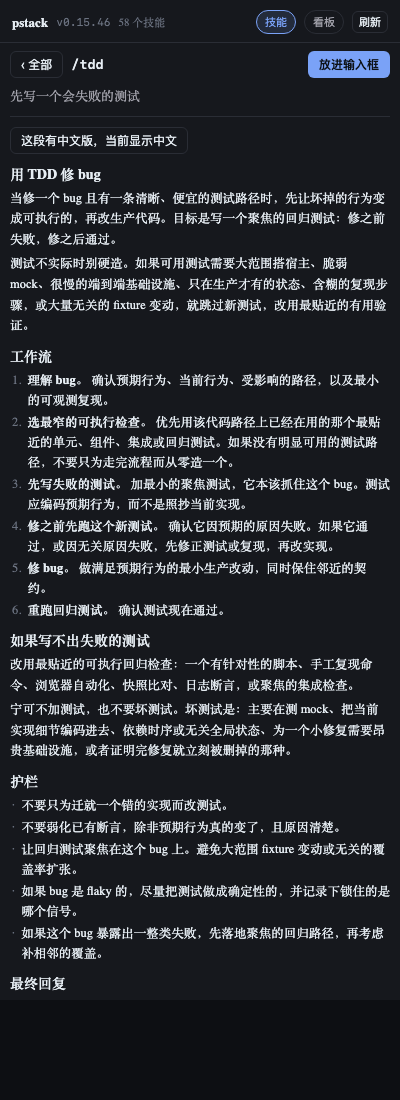
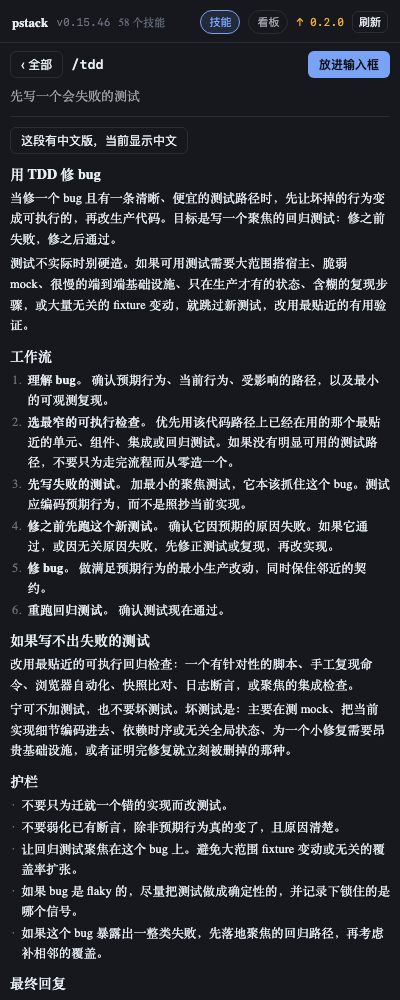
README：补 pstack 是什么/怎么用/执行原理，加产品截图与参考链接
- 新增三节：pstack 是什么（三层结构 22 剧本/34 技能/24 原则）、怎么用（Claude Code/Cursor/npx skills）、执行原理（说目标→匹配剧本→执行→验证，四条为什么）
- 新增截图章节：技能列表/技能详情/项目看板/依赖流程/下钻，全部由 npm run preview 渲染真面板截出
- 参考的项目 → 参考链接，加入 pstack.xiaoxiaodong.ai 与 nevertoday/xxd-pstack
- 版本 0.2.1（README 随包发布，npm 页同步）

diff --git a/README.md b/README.md
@@ -1,6 +1,12 @@
 # dsh-pstack-deck
 
-把 [pstack](https://github.com/backnotprop/pstack) 的 58 个技能做成 **DeepSeek Harness（DSH）** 右栏面板：点一下就注入，不用记名字。再往前一步，它还是一个**项目看板**——多任务并行时告诉你哪张卡现在能开工、谁在做、会不会打架、下一步该用哪个技能。
+把 [pstack](https://github.com/backnotprop/pstack) 的 58 个技能做成 **DeepSeek Harness（DSH）** 的右栏面板：点一下就注入，不用记名字。再往前一步，它还是一个**项目看板**——多任务并行时告诉你哪张卡现在能开工、谁在做、会不会打架、下一步该用哪个技能。
+
+![npm](https://img.shields.io/npm/v/dsh-pstack-deck?style=flat-square&color=8A9A8C)
+![技能](https://img.shields.io/badge/技能-58_个-D7B9C8?style=flat-square)
+![中文正文](https://img.shields.io/badge/中文正文-58_篇-9AA8C4?style=flat-square)
+![测试](https://img.shields.io/badge/测试-46_通过-C9A97A?style=flat-square)
+![许可](https://img.shields.io/badge/许可-MIT-8A9A8C?style=flat-square)
 
 - 插件名：`dsh-pstack-deck`
 - 宿主：DSH（Web 与桌面都行）
@@ -8,15 +14,150 @@
 
 ---
 
+## 截图
+
+右栏面板，三个视图。下面这些是用 `npm run preview` 把真面板渲染成 HTML 再截的，不是手画的示意图。
+
+**技能列表** —— 58 个技能按六组排，带中文一句话；标题栏会自己问 npm 有没有新版本。
+
+![技能列表](docs/preview-list.png)
+
+**技能详情** —— 中文正文，可一键切回英文原文，底部直接「放进输入框」。
+
+![技能详情](docs/preview-detail.png)
+
+**项目看板** —— 顶部是 3~5 条带现成提示词的建议，下面按「可开工 / 在做 / 完成 / 被挡着」分组，每张卡带推荐技能、紧急度与把握。
+
+![项目看板](docs/preview-board.png)
+
+**依赖流程图** —— 一列一层，箭头是「先做 → 再做」；每个没做完的节点下面挂着两格虚线：推荐的下一步技能，和「完成」。
+
+![依赖流程图](docs/preview-flow.png)
+
+**点节点下钻** —— 状态、认领人、动哪些路径、等谁、下一步技能与理由、可直接粘的命令。
+
+![下钻](docs/preview-drill.png)
+
+---
+
+## pstack 是什么
+
+**一句话：它不是新模型，是装进你已经在用的 AI 编程工具里的一包做事规矩。**
+
+模型还是那个模型（Claude、GPT、随便哪个）。变的是它做事的**顺序和标准**：先搞懂，再动手，改完自己检查一遍才回话。
+
+pstack 由 poteto 写就——React 核心团队出身，在 Cursor 期间写下它，现在做 Grok Bot。它把自己每天写代码用的那套东西抽成了一包可安装的技能，免费开源。
+
+它要治的是这四个毛病：
+
+- **没读懂就改。** 改在看着对、其实不对的地方。
+- **只治表面。** 在显示的地方去掉重复数据，产生重复的 bug 还在。
+- **没试过就说做完了。** 它说「应该没问题了」，你一跑还是坏的。
+- **越改越多。** 加一堆用不上的代码，下一个 bug 就藏在里面。
+
+装进去的东西分三层：
+
+| 层 | 数量 | 是什么 |
+|---|---|---|
+| **剧本**（playbook） | 22 套 | 每类任务一套做法：修 bug、加功能、重构、追查故障…… |
+| **技能**（skill） | 34 个 | 单点动作：`how` 讲清代码、`bro` 翻成大白话、`interrogate` 挑刺 |
+| **原则**（principle） | 24 条 | 判断标准：「先删再加」「证明它能用」「改调用方而不是加兼容层」 |
+
+加起来 58 个技能条目（34 个动作 + 24 条原则），装在这一份仓库里。
+
+**适合谁：** 用 AI 做过东西、被「已完成但其实没好」坑过的人；想要做对，不在乎慢一点。
+**先别用：** 改错别字、换个颜色这种小事直接跟 AI 说就行；只要最快最省额度也别用，pstack 会多检查，更慢也更费 token。
+
+## pstack 怎么用
+
+### 在 Claude Code / Cursor / Codex 里
+
+**Claude Code**（插件市场）：
+
+```
+/plugin marketplace add cursor/plugins
+/plugin install pstack@cursor-plugins
+```
+
+命令挂在 `pstack:` 下面，所以是 `/pstack:poteto-mode`，只打 `/poteto-mode` 不认。
+
+**Cursor**：对话框里发 `/add-plugin pstack`，命令保持原样，不用前缀。
+
+**Codex 和其他**（`npx skills`，需要 Node.js 22.20+）：
+
+```bash
+npx skills add backnotprop/pstack        # 装进当前项目
+npx skills add backnotprop/pstack -g     # 装到全局，所有项目都能用
+```
+
+装完开一个**新对话**，输入 `/` 看到 `poteto-mode` 就是成了。项目级安装落在 `<项目>/.dsh/skills/` 或 `.agents/skills/`，全局落在 `~/.dsh/skills/`。
+
+### 在 DSH 里
+
+用本插件（见下一节）。它做的是同一件事，只是把 58 个技能摆成能点的面板，并把看板、依赖拓扑一起给你。
+
+### 平时只用记住一个命令
+
+```
+/pstack:poteto-mode
+```
+
+你说目标（加上怎么算做完），它安排剩下的。比如：
+
+> 先复现这个 bug，再修，修完给我看证据。
+
+不用记那 58 个名字。不知道学哪个就先问 `/pstack:poteto-help`，它只回答问题，不会开始干活。
+
+## pstack 的执行原理
+
+pstack 每接一件事，走固定的四步。它的价值全在这个顺序里，不在某一句话写得聪明。
+
+```
+你说一句话（目标 + 怎么算做完）
+        │
+        ▼
+① 匹配：poteto-mode 从 22 套剧本里挑一套
+        │   把剧本的步骤原样抄进待办清单，不改写
+        ▼
+② 执行：按清单逐步调用技能
+        │   读代码用 how、定设计用 architect、挑刺用 interrogate
+        │   活多就派子代理，子代理守同一套规矩、各用各的工作目录
+        ▼
+③ 验证：检查完才交回来
+        │   真实命令输出、截图、前后对比、日志断言
+        │   验证不了的直说「没法确定」，不许说「应该没问题了」
+        ▼
+④ 交回：干了什么、查到什么、还剩什么，逐条对上清单
+```
+
+四个细节决定了它为什么比「直接让 AI 改」靠谱：
+
+1. **先复述，再动手。** 你要的东西它会先用自己话讲一遍，你能在它动手之前就纠正。
+2. **剧本是抄的，不是编的。** 挑中的剧本步骤原样进清单，所以「它这次心情好就跳步」这件事不会发生。
+3. **改动越小越好。** 能删就删、不加用不上的抽象、调用方迁完就删旧接口——24 条原则里一大半在压这个。
+4. **证据先于结论。** 「做完了」必须附上跑过的命令和看到的输出；跑不动的部分标成「无法验证」，而不是省略。
+
+一句话：**它不改模型的能力，改的是模型的作业流程。** 所以它跟 Claude Code、Cursor、Codex 都能配——只要那个工具能改文件、能执行命令。
+
+想读完整版有两条路：写代码的看 [9 步完整教程](https://pstack.xiaoxiaodong.ai/guide/0-what/)，不写代码的看 [新手 3 课](https://pstack.xiaoxiaodong.ai/start/1-why/)（20 分钟）。
+
+---
+
 ## 装进 DSH
 
 插件在 DSH 里有三个入口，装一次全都来：右栏面板、斜杠菜单、工具行。
 
-**从 GitHub 装（推荐）**
+**从 npm 装**
+
+```bash
+dsh plugin --profile desktop add dsh-pstack-deck@0.2.1
+dsh plugin --profile web add dsh-pstack-deck@0.2.1
+```
+
+**从 GitHub 装**
 
 ```bash
 dsh plugin --profile web add github:kestrelvale/dsh-pstack-deck
-dsh plugin --profile desktop add github:kestrelvale/dsh-pstack-deck
 ```
 
 **从本地目录装**（改代码时用这个，改完重启就生效）
@@ -25,13 +166,9 @@ dsh plugin --profile desktop add github:kestrelvale/dsh-pstack-deck
 dsh plugin --profile web add link:/绝对路径/dsh-pstack-deck
 ```
 
-**npm**（包名 `dsh-pstack-deck`，发布后可用）
-
-```bash
-dsh plugin --profile web add dsh-pstack-deck
-```
-
 装完要重启宿主：Web 重启 `dsh web`，桌面版退出并重新打开（关窗口可能只是隐藏）。
+
+> 国内网络注意：本机默认 registry 常常是 `registry.npmmirror.com`，镜像同步有延迟。要装刚发布的版本就显式指定官方源：`--registry=https://registry.npmjs.org`。
 
 ### DSH 是怎么找到这个包的
 
@@ -68,18 +205,18 @@ dsh 启动时读 `dsh.bundle.patch`，把这三个插件并进内存里的 profi
 
 ---
 
-## 怎么用
+## 面板怎么用
 
 ### 1. 右栏「pstack」tab
 
 两个视图：
 
-**技能** — 58 个技能按六组排（workflow 34 / core 10 / architecture 6 / verification 5 / delegation 2 / meta 1），带中文一句话、参数提示、同装依赖。搜「验证」「测试」「文档」都能搜到。点开看中文正文（有对照原文的开关），点「用这个技能」把 `/技能名` 塞进输入框。
+**技能** —— 58 个技能按六组排（workflow 34 / core 10 / architecture 6 / verification 5 / delegation 2 / meta 1），带中文一句话、参数提示、同装依赖。搜「验证」「测试」「文档」都能搜到。点开看中文正文（有对照原文的开关），点「放进输入框」把 `/技能名` 塞进输入框。
 
-**看板** — 一个项目一块板，存在 `<项目>/.pstack/board/`，一张卡一个 markdown 文件。
+**看板** —— 一个项目一块板，存在 `<项目>/.pstack/board/`，一张卡一个 markdown 文件。
 
 ```
-. pstack/board
+.pstack/board/
 ├── 1-把导出改成流式.md     ← 地图：这次要去哪（kind: map）
 ├── 2-大文件导出会-oom.md
 ├── 3-登录后偶发-401.md
@@ -108,7 +245,7 @@ agent 自己也能用：
 
 建议列表每条**点开**才有内容：Jev 分解（在做 / 类型 / 进展 / 新鲜四格分）、一条能直接粘的命令（带卡号，如 `/correct #3 登录后偶发 401`）、三个按钮。
 
-「流程」视图按依赖画拓扑：一列一层，箭头是「先做 → 再做」，虚线框是废弃的卡。**每个没做完的节点下面还挂着两格虚线**：`→ /推荐技能` 和 `✓ 完成 #id`——这条线的预期走向一眼看完。点任意节点**下钻**：状态、认领人、动哪些路径、等谁、命令，以及「执行 / 交回 / 标记完成 / 废弃」。
+「流程」视图按依赖画拓扑。**每个没做完的节点下面还挂着两格虚线**：`→ /推荐技能` 和 `✓ 完成 #id`——这条线的预期走向一眼看完。点任意节点**下钻**：状态、认领人、动哪些路径、等谁、命令，以及「执行 / 交回 / 标记完成 / 废弃」。
 
 ---
 
@@ -116,7 +253,7 @@ agent 自己也能用：
 
 ### 目录就是真相，没有第二份清单
 
-面板、路由、工具、斜杠菜单**四处都现读** `repo/skills/` 和 `.pstack/board/`。改一个 `SKILL.md`，四处一起变；没有导入、导出、缓存清单要同步。`: 只有一处 5 秒的目录缓存，为了让输入框不卡。`
+面板、路由、工具、斜杠菜单**四处都现读** `repo/skills/` 和 `.pstack/board/`。改一个 `SKILL.md`，四处一起变；没有导入、导出、缓存清单要同步。只有一处 5 秒的目录缓存，为了让输入框不卡。
 
 ### 一个项目一块板，一张卡一个 markdown 文件
 
@@ -152,11 +289,11 @@ verify: node --test 全绿  # 做完的证据
 
 ### 建议是三层判断，不是一段话
 
-照 Jev / System One 的结构抄的骨架，但**不假装是模型**：
+照 [Jev / System One](https://docs.typesafe.ai/introduction) 的结构抄的骨架，但**不假装是模型**：
 
-1. **noul（判真假）**— 这张卡够清楚吗？在开工吗？最近动过吗？
+1. **noul（判真假）**——这张卡够清楚吗？在开工吗？最近动过吗？
 2. **choice（选一个）**——从卡里选技能：缺陷→`tdd`/`correct`，说不清→`sharpen`，想法→`figure-it-out`，在做→`prove-it-works`。
-3. **score（打分）**— `COEF = { state: 0.45, kind: 0.25, progress: 0.15, fresh: 0.15 }` 加权得紧急度；`certainty` 是独立第二轴，低了就标注「先确认」。
+3. **score（打分）**——`COEF = { state: 0.45, kind: 0.25, progress: 0.15, fresh: 0.15 }` 加权得紧急度；`certainty` 是独立第二轴，低了就标注「先确认」。
 
 权重写在代码里，改优先级改系数，不碰任何提示词。
 
@@ -168,23 +305,24 @@ verify: node --test 全绿  # 做完的证据
 src/
   catalog.js   读 repo/skills 的 frontmatter、分组、依赖闭包、与 ~/.dsh/skills 对比漂移
   i18n.js      58 条中文一句话 + 分组名 + 五步上手引导
-  host.js      技能 provider、POST /api/psp（catalog / skill / board / suggest）
+  host.js      技能 provider、POST /api/psp（catalog / skill / board / suggest / update）
   board.js     看板读写、依赖图、frontier、scope 冲突、地图四段
   suggest.js   三层决策（项目层 → 全局层 → 开场层）
+  update.js    问 npm 有没有新版本（数字比版本、只缓存 latest）
   tools.js     工具行
   client.js    右栏 tab（技能 / 看板 / 流程 / 下钻）
 zh/            58 篇中文正文（与 repo/skills 逐篇对齐，npm run check:zh 校验）
 repo/          pstack 上游只读快照（skills / plugin.json / LICENSE）
-scripts/       sync-skills（推到 ~/.dsh/skills）、check-zh、preview（自渲染截图）
-test/          node --test，45 条
-docs/          parallel-tasks.md + 预览截图
+scripts/       sync-skills（推到 ~/.dsh/skills）、check-zh、preview（自渲染截图）、dev（热循环）
+test/          node --test，46 条
+docs/          parallel-tasks.md + 面板截图
 ```
 
 ## 开发
 
 ```bash
-npm test           # 45 条：目录解析、路由信封、工具、看板、依赖图、建议、版本比较、客户端渲染
-npm run dev        # 起一个临时宿主（默认 web profile:5599），改 src/ 自动重启
+npm test           # 46 条：目录解析、路由信封、工具、看板、依赖图、建议、版本比较、客户端渲染
+npm run dev        # 起一个临时宿主（默认 web profile :5599），改 src/ 自动重启
 npm run preview    # 用假 React 把面板渲染成 HTML，再用 Chrome 截图，不用起宿主
 npm run sync       # 把 repo/skills 推到 ~/.dsh/skills（--dry 只看差异）
 npm run check:zh   # 中文正文与原文逐篇对齐检查
@@ -209,7 +347,7 @@ dsh plugin --profile desktop add link:/绝对路径/dsh-pstack-deck
 
 所以「技能内容热更新」是这个项目的设计红利，「代码热更新」没有。`npm run dev` 把手动退出重开压成一次保存，仅此而已；唯一存在 HMR 通道的是 DSH 自己 checkout 里 `pnpm run dev:web` 起的那条，不覆盖 npm 装的第三方包。
 
-面板自己会查 npm：启一次（十分钟缓存）之后，标题栏显示 `插件 0.1.0` 或琥珀色的 `↑ 0.1.1`；有新版本时技能视图顶部给一条可复制的升级命令。
+面板自己会查 npm：启一次（十分钟缓存）之后，标题栏显示 `插件 0.2.1` 或琥珀色的 `↑ 0.3.0`；有新版本时技能视图顶部给一条可复制的升级命令。
 
 ### 发版
 
@@ -231,10 +369,18 @@ npm publish --registry=https://registry.npmjs.org --access public
 - WIP 上限没有硬拦：认领第二张 `doing` 不会被拒绝，只是分组里看得见。
 - 地图「还没想清」的雾**不会自动毕业**成新卡，要人点一下。
 - 预期线路只画一步（推荐 → 完成），不画「完成之后接哪张」。
+- 中文正文是逐篇人工对齐翻译，上游改版后需要重跑 `npm run check:zh` 才发现漂移。
 
-## 参考的项目
+## 参考链接
 
-- **[backnotprop/pstack](https://github.com/backnotprop/pstack)** —— 58 个技能的全部内容、分组、原则与依赖关系的来源。本仓库的 `repo/` 是它的只读快照（`c3464c1`），我们的贡献只有「怎么让人用得动」这一层。
+**上游与教程**
+
+- **[backnotprop/pstack](https://github.com/backnotprop/pstack)** —— 58 个技能的全部内容、分组、剧本、原则与依赖关系的来源。本仓库的 `repo/` 是它的只读快照（`c3464c1`，同步于 2026-11-20），我们的贡献只有「怎么让人用得动」这一层。
+- **[pstack 新手教程 · pstack.xiaoxiaodong.ai](https://pstack.xiaoxiaodong.ai/)** —— 中文教程站：「AI 说『做好了』之前，先让它自己试一遍」。新手 3 课（20 分钟）、完整 9 步、[技能速查](https://pstack.xiaoxiaodong.ai/skills/)、[原则 Wiki](https://pstack.xiaoxiaodong.ai/wiki/principles/)。本 README 里「pstack 是什么 / 怎么用 / 执行原理」三节的事实与措辞主要依据这个站。
+- **[nevertoday/xxd-pstack](https://github.com/nevertoday/xxd-pstack)** —— 上面那个教程站的开源仓库：用大白话把 pstack 讲清楚，不会写代码也能学会，10 种语言（英/中/日/韩/西/葡/法/德/俄/阿）。它本身不是技能包，是**文档**；镜像的是 `backnotprop/pstack`，每天同步。
+
+**本项目借鉴的东西**
+
 - **[dsh-mattpocock-skills-deck](https://github.com/FeatherHunter/dsh-mattpocock-skills-deck)**（Matt Pocock 技能集的 DSH 面板）—— 面板形态、右栏 tab 的注册方式、以及看板与地图机制的参照。本项目的地图四段、`frontier`、`claim` 三个概念直接来自它的 `wayfinder` 技能：
   > "A session **claims** a ticket by assigning it to the dev driving the map, **first**, before any work, so concurrent sessions skip it."<br>
   > "A ticket is **unblocked** when every ticket blocking it is closed; the **frontier** is the open, unblocked, unclaimed children, the edge of the known."
